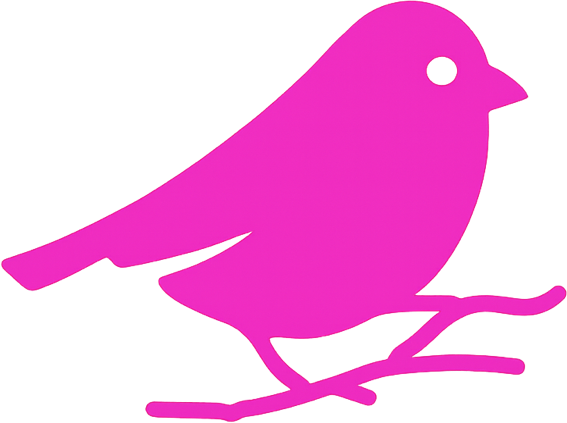
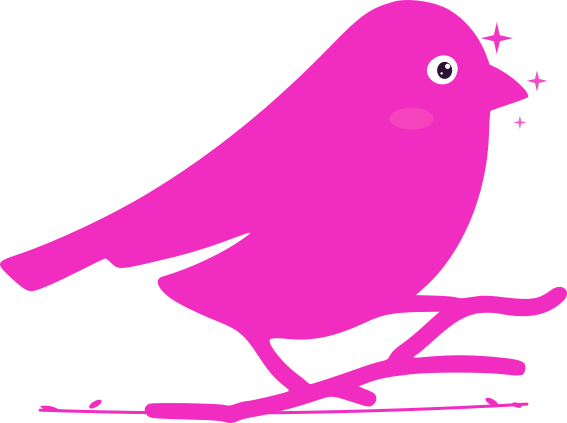
docs(sponsors): update VisionCoder entry
- Switch domain to visioncoder.cn (per VisionCoder request)
- Refresh logo asset (assets/sponsors/visioncoder.png)
- Update sponsor copy to reflect current VisionCoder offerings
  (retail channels for Claude Max 200 / GPT Pro 200 premium accounts)

🤖 Generated with [Claude Code](https://claude.com/claude-code)

diff --git a/README.md b/README.md
@@ -134,8 +134,8 @@ MiniMax-M3 pushes the frontier of coding and agentic AI, with a 1M-token context
 </tr>
 
 <tr>
-<td width="150"><a href="https://coder.visioncoder.cn"><img src="assets/sponsors/visioncoder.png" alt="VisionCoder" width="120"></a></td>
-<td>Thanks to VisionCoder for supporting this project. <a href="https://coder.visioncoder.cn">VisionCoder Developer Platform</a> is a reliable and efficient API relay service provider, offering access to mainstream AI models such as Claude Code, Codex, and Gemini. It helps developers and teams integrate AI capabilities more easily and improve productivity. VisionCoder is also offering our users a limited-time <a href="https://coder.visioncoder.cn">Token Plan</a> promotion: buy 1 month and get 1 month free.</td>
+<td width="150"><a href="https://visioncoder.cn"><img src="assets/sponsors/visioncoder.png" alt="VisionCoder" width="120"></a></td>
+<td>Thanks to VisionCoder for supporting this project. <a href="https://visioncoder.cn">VisionCoder Developer Platform</a> is a reliable and efficient API relay service provider, offering access to mainstream AI models such as Claude Code, Codex, and Gemini. It helps developers and teams integrate AI capabilities more easily and improve productivity. Additionally, VisionCoder now offers retail channels for Claude Max 200 and GPT Pro 200 premium accounts, providing users with instant access to top-tier AI computing power and features.</td>
 </tr>
 
 

diff --git a/README.zh-CN.md b/README.zh-CN.md
@@ -133,8 +133,8 @@ MiniMax M3 突破 Coding 与 Agentic AI 前沿，基于 MiniMax Sparse Attention
 </tr>
 
 <tr>
-<td width="150"><a href="https://coder.visioncoder.cn"><img src="assets/sponsors/visioncoder.png" alt="VisionCoder" width="120"></a></td>
-<td>感谢 VisionCoder 对本项目的支持。<a href="https://coder.visioncoder.cn">VisionCoder 开发平台</a> 是一个可靠高效的 API 中继服务提供商，提供 Claude Code、Codex、Gemini 等主流 AI 模型，帮助开发者和团队更轻松地集成 AI 功能，提升工作效率。VisionCoder 还为我们的用户提供 <a href="https://coder.visioncoder.cn">Token Plan</a> 限时活动：购买 1 个月，赠送 1 个月。</td>
+<td width="150"><a href="https://visioncoder.cn"><img src="assets/sponsors/visioncoder.png" alt="VisionCoder" width="120"></a></td>
+<td>感谢 VisionCoder 对本项目的支持。<a href="https://visioncoder.cn">VisionCoder 开发平台</a> 是一个可靠高效的 API 中继服务提供商，提供 Claude Code、Codex、Gemini 等主流 AI 模型，帮助开发者和团队更轻松地集成 AI 功能，提升工作效率。此外，VisionCoder 还提供 Claude Max 200 与 GPT Pro 200 高级成品号的独家售卖渠道，助力体验全网顶配 AI 的算力与体验。</td>
 </tr>
 
 